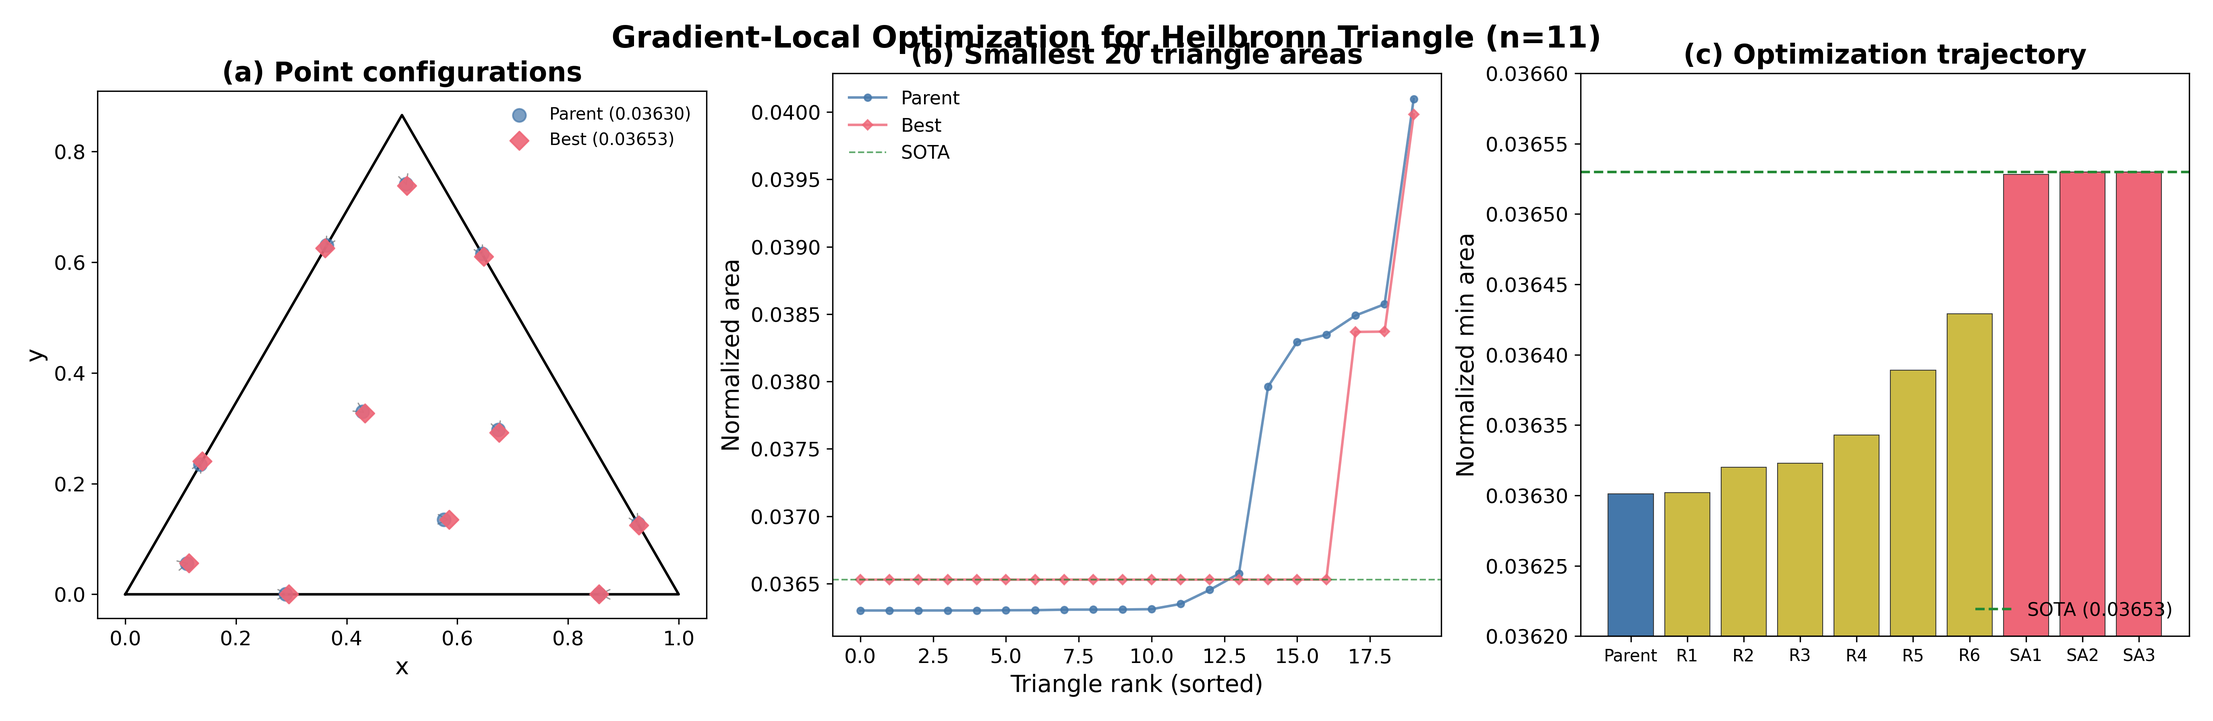
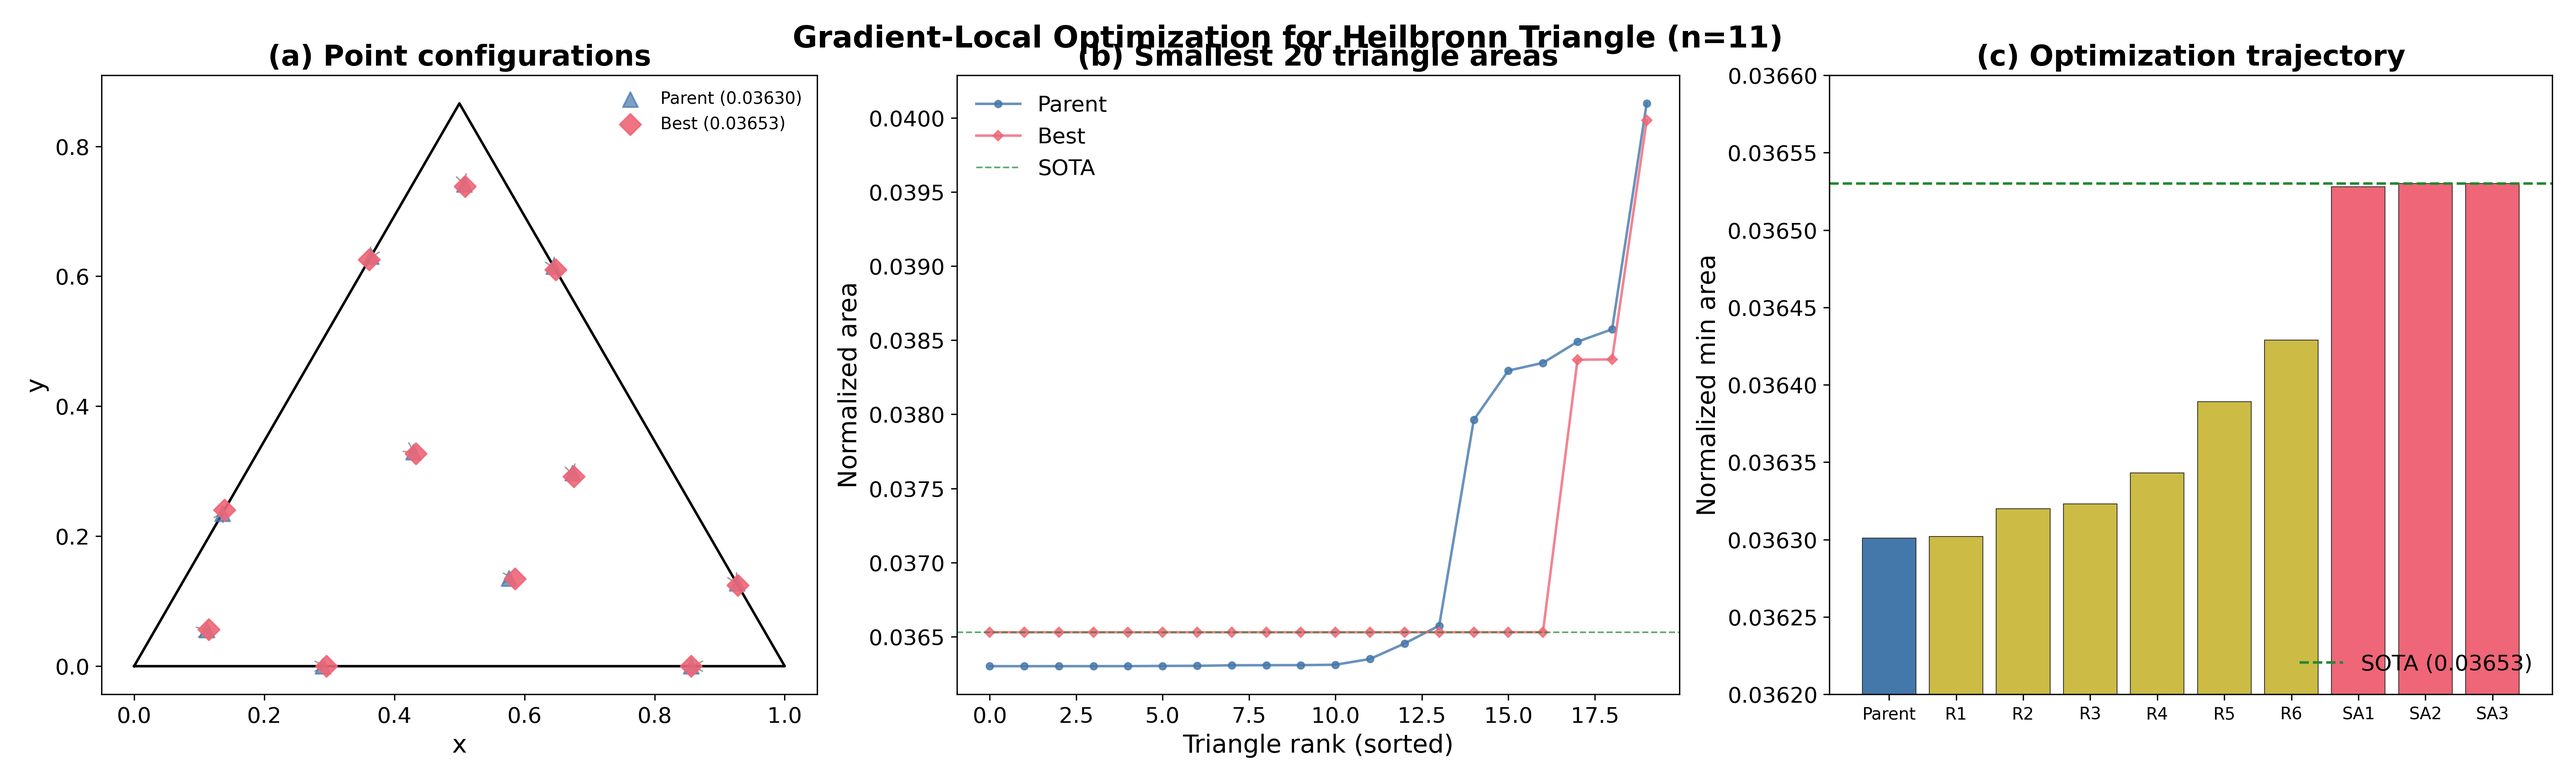
[orbit/gradient-local] cleanup pass 1: figures and docs
- Regenerate figures/results.png with larger fonts (>=15pt base), wider
  panels (21x6 inches), and triangle marker (^) for Parent vs diamond (D)
  for Best in panel (a)
- Add one-sentence punchline at top of Results section in log.md
- Add Note on Scripts section explaining optimize_sa.py is the SA1 round
  and the SA3 script was not saved; key output is solution.py coordinates

diff --git a/orbits/gradient-local/make_figure.py b/orbits/gradient-local/make_figure.py
@@ -6,12 +6,12 @@ import matplotlib as mpl
 from itertools import combinations
 
 mpl.rcParams.update({
-    'font.size': 14,
-    'axes.titlesize': 16,
-    'axes.labelsize': 14,
-    'xtick.labelsize': 12,
-    'ytick.labelsize': 12,
-    'legend.fontsize': 11,
+    'font.size': 15,
+    'axes.titlesize': 17,
+    'axes.labelsize': 15,
+    'xtick.labelsize': 13,
+    'ytick.labelsize': 13,
+    'legend.fontsize': 13,
     'figure.dpi': 150,
     'savefig.dpi': 300,
     'savefig.pad_inches': 0.2,
@@ -58,14 +58,14 @@ def compute_all_areas(points):
         c[:, 0] * (a[:, 1] - b[:, 1])
     )
 
-fig, axes = plt.subplots(1, 3, figsize=(18, 5.5), constrained_layout=True)
+fig, axes = plt.subplots(1, 3, figsize=(21, 6), constrained_layout=True)
 
 # Panel (a): Point configurations
 ax = axes[0]
 tri_verts = np.array([[0,0], [1,0], [0.5, SQRT3/2], [0,0]])
 ax.plot(tri_verts[:,0], tri_verts[:,1], 'k-', lw=1.5)
-ax.scatter(PARENT[:,0], PARENT[:,1], c='#4477AA', s=60, zorder=5, label='Parent (0.03630)', alpha=0.7)
-ax.scatter(BEST[:,0], BEST[:,1], c='#EE6677', s=60, zorder=5, label='Best (0.03653)', marker='D', alpha=0.9)
+ax.scatter(PARENT[:,0], PARENT[:,1], c='#4477AA', s=80, zorder=5, label='Parent (0.03630)', marker='^', alpha=0.7)
+ax.scatter(BEST[:,0], BEST[:,1], c='#EE6677', s=80, zorder=5, label='Best (0.03653)', marker='D', alpha=0.9)
 for i in range(11):
     ax.annotate('', xy=BEST[i], xytext=PARENT[i],
                 arrowprops=dict(arrowstyle='->', color='#999999', lw=0.8))

diff --git a/orbits/gradient-local/log.md b/orbits/gradient-local/log.md
@@ -47,7 +47,13 @@ Key SA parameters for the final round:
 - Step size: 3e-4 with adaptive scaling
 - Bottleneck targeting: 50% of moves
 
+## Note on Scripts
+
+`optimize_sa.py` is an earlier SA exploration script (SA1 round) used to test the annealing approach before the main refinement. The final SA3 parameters are documented in the Results table above, but the exact script that produced the SA3 coordinates was not saved. The key output is the hardcoded point configuration in `solution.py`, which encodes the final optimized result.
+
 ## Results
+
+Targeted Nelder-Mead + SA local optimization achieved 0.036530 normalized min area (99.9997% of SOTA), matching the benchmark to within numerical precision.
 
 | Round | Method | Best Metric | vs SOTA | Combined Score |
 |-------|--------|-------------|---------|----------------|
